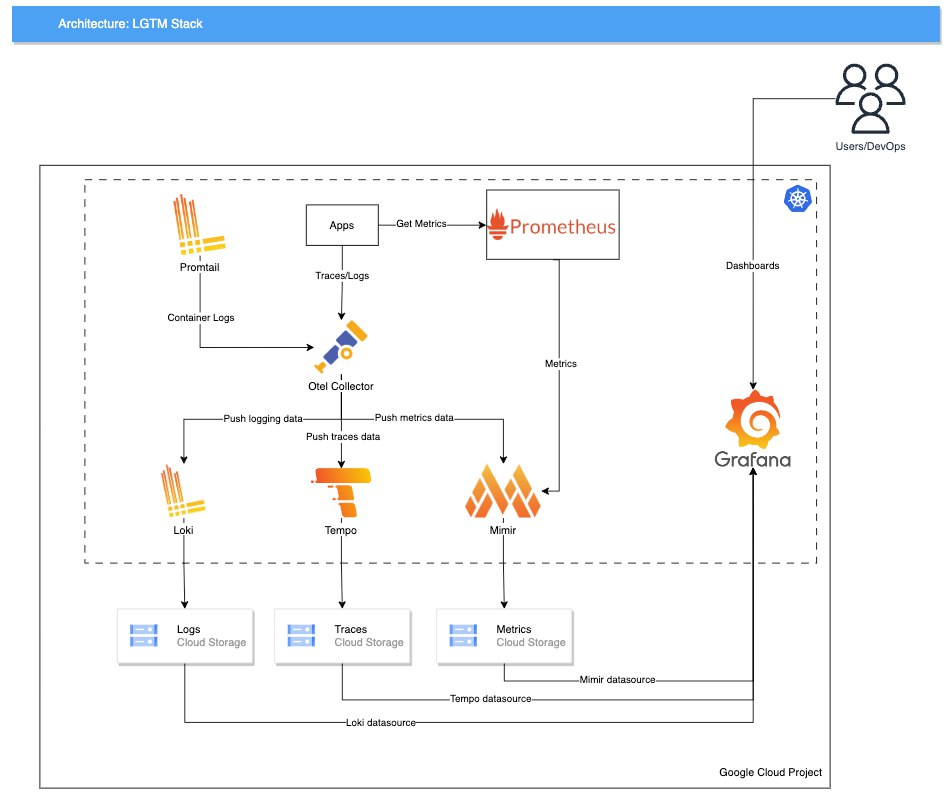
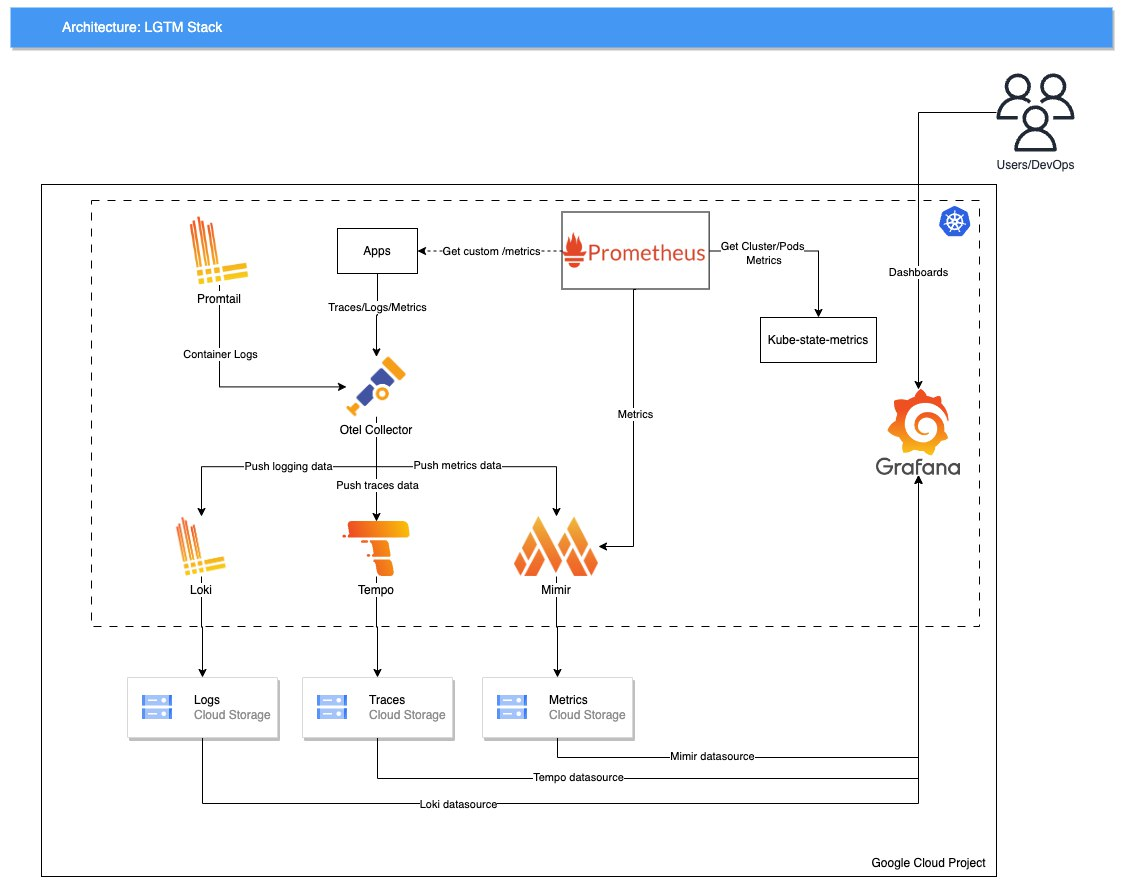
docs: update docs

diff --git a/README.md b/README.md
@@ -11,26 +11,26 @@
 
 The LGTM stack, by Grafana Labs, combines best-in-class open-source tools to provide comprehensive system visibility, consisting of:
 
-- **Loki**: Log storage and management
-- **Tempo**: Distributed tracing storage and management
-- **Mimir**: Long-term metrics storage
-- **Grafana**: Interface & Dashboards
-
-With this stack, we have a complete observability solution that covers logs, metrics, and traces, with support for high availability and scalability, plus all data will be present in a single location (grafana), making it easier to analyze and correlate events, and by using bucket storage as a backend, the solution becomes much more economical compared to others that require dedicated databases or persistent disks, like the ELK Stack.
+- **Loki**: Log aggregation system https://grafana.com/oss/loki/
+- **Grafana**: Interface & Dashboards https://grafana.com/oss/grafana/
+- **Tempo**: Distributed tracing storage and management https://grafana.com/oss/tempo/
+- **Mimir**: Long-term metrics storage for Prometheus https://grafana.com/oss/mimir/
 
 
-<div align="center">
-<h3>This guide will help you set up the LGTM stack in your Kubernetes environment, whether for local development or production, also how to setup an open telemetry collector to route all telemetry data to the appropriate backends.</h3>
-</div>
+With this stack, we have a complete observability solution that covers logs, metrics, and traces, with support for high availability and scalability, plus all data will be present in a single location (grafana), making it easier to analyze and correlate events, and by using object storage as a backend, the solution becomes much more economical compared to others that require dedicated databases or persistent disks.
+
+
+>This guide will help you set up the LGTM stack in your Kubernetes environment, whether for local development or production, also how to setup an open telemetry collector to route all telemetry data to the appropriate backends.
 
 ### Architecture
 
 ![LGTM Architecture](./assets/images/lgtm.jpg)
 
-Each component (Loki, Grafana, Tempo, Mimir) runs in Kubernetes with its own storage backend. For instance we are using GCP Cloud Storage as example, but they support AWS (s3)/Azure (blob storage) as backends too, for local development we can use MinIO.
+Each component (Loki, Grafana, Tempo, Mimir) runs in Kubernetes with its own storage backend. For instance we are using GCP Cloud Storage as example, but the stack supports AWS (s3)/Azure (blob storage) as backends too, for local development we can use MinIO.
 
-Also this architecture includes three optional components:
-- Prometheus: collects cluster metrics (CPU/Memory) and sends to Mimir
+Also this architecture includes four optional components:
+- Prometheus: collects custom metrics from apps and cluster and sends to Mimir
+- Kube-state-metrics: collects metrics (CPU/Memory) of services/apps through the API server and outputs to Prometheus
 - Promtail: agent that captures container logs and sends to Loki
 - OpenTelemetry Collector: routes all telemetry data to appropriate backends, acts as a central hub
 
@@ -49,7 +49,7 @@ Production setup:
 
 ## Summary
 
-- [Quick Start](#quick-start)
+- [Getting Started](#getting-started)
   - [Prerequisites](#prerequisites)
   - [Installation](#installation)
     - [Option 1: Makefile](#option-1-makefile)
@@ -69,7 +69,7 @@ Production setup:
         - [Loki Labels Customization](#loki-labels-customization)
 - [Uninstall](#uninstall)
 
-## Quick Start 
+## 🚀 Getting Started
 
 ### ✨ Prerequisites
 - [Helm v3+](https://helm.sh/docs/intro/install/)

diff --git a/README.pt-br.md b/README.pt-br.md
@@ -11,17 +11,16 @@
 
 A stack LGTM, da Grafana Labs, combina as melhores ferramentas open-source para fornecer visibilidade completa do sistema, consistindo em:
 
-- **Loki**: Armazenamento e gerenciamento de logs
-- **Tempo**: Armazenamento e gerenciamento de traces distribuídos
-- **Mimir**: Armazenamento de métricas a longo prazo
-- **Grafana**: Interface & Dashboards
-
-Com essa stack, temos uma solução completa de observabilidade que cobre logs, métricas e traces, com suporte para alta disponibilidade e escalabilidade, todos os dados ficam centralizados no Grafana para facilitar a análise e correlação de eventos, e por utilizar armazenamento em bucket (object storage) como backend, a solução se torna muito mais econômica em comparação com outras que necessitam de bancos de dados dedicados ou discos persistentes, como a ELK Stack.
+- **Loki**: Sistema de Agregação de logs https://grafana.com/oss/loki/
+- **Grafana**: Sistema para Interface & Dashboards https://grafana.com/oss/grafana/
+- **Tempo**: Armazenamento e gerenciamento de traces distribuídos https://grafana.com/oss/tempo/
+- **Mimir**: Armazenamento de métricas a longo prazo para o Prometheus https://grafana.com/oss/mimir/
 
 
-<div align="center">
-<h3> Esse guia irá te ajudar a configurar a stack LGTM no seu ambiente Kubernetes, seja para desenvolvimento local ou produção, também como configurar um coletor de open telemetry para direcionar todos os dados de telemetria para os backends apropriados.</h3>
-</div>
+Com essa stack, temos uma solução completa de observabilidade que cobre logs, métricas e traces, com suporte para alta disponibilidade e escalabilidade, todos os dados ficam centralizados no Grafana para facilitar a análise e correlação de eventos, e por utilizar armazenamento em bucket (object storage) como backend, a solução se torna muito mais econômica em comparação com outras que necessitam de bancos de dados dedicados ou discos persistentes.
+
+
+>Esse guia irá te ajudar a configurar a stack LGTM no seu ambiente Kubernetes, seja para desenvolvimento local ou produção, também como configurar um coletor de open telemetry para direcionar todos os dados de telemetria para os backends apropriados.
 
 ## Arquitetura
 
@@ -29,8 +28,9 @@ Com essa stack, temos uma solução completa de observabilidade que cobre logs, 
 
 Cada componente (Loki, Grafana, Tempo, Mimir) roda no Kubernetes com seu próprio backend de armazenamento. Como exemplo, estamos usando o Cloud Storage da GCP, mas a stack também suportam AWS (s3)/Azure (blob storage) como backends, para desenvolvimento/teste local podemos usar o MinIO.
 
-A arquitetura também inclui três componentes opcionais:
-- Prometheus: coleta métricas do cluster (CPU/Memória) e envia para o Mimir
+A arquitetura também inclui quatro componentes opcionais:
+- Prometheus: coleta métricas personalizadas de aplicações e do cluster e envia para o Mimir
+- Kube-state-metrics: coleta métricas (CPU/Memória etc) dos serviços/apps através do API server e expõe para o Prometheus
 - Promtail: agente que captura logs dos containers e envia para o Loki
 - OpenTelemetry Collector: encaminha todos os dados de telemetria para os backends apropriados, atuando como um hub central
 
@@ -69,7 +69,7 @@ Ambiente de produção:
         - [Personalização de Labels do Loki](#personalização-de-labels-do-loki)
 - [Desinstalação](#desinstalação)
   
-## Início Rápido
+## 🚀 Início Rápido
 
 ### ✨ Pré-requisitos
 - [Helm v3+](https://helm.sh/docs/intro/install/)
